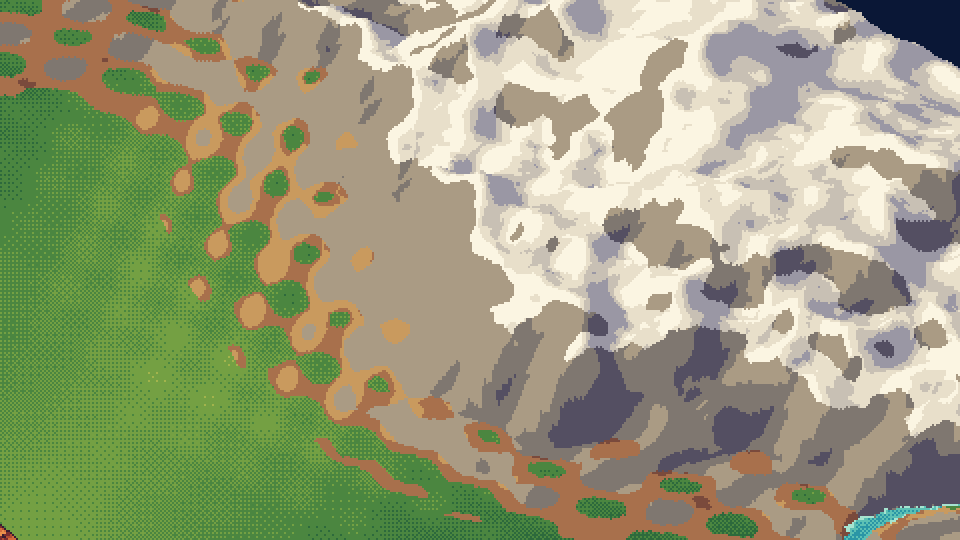
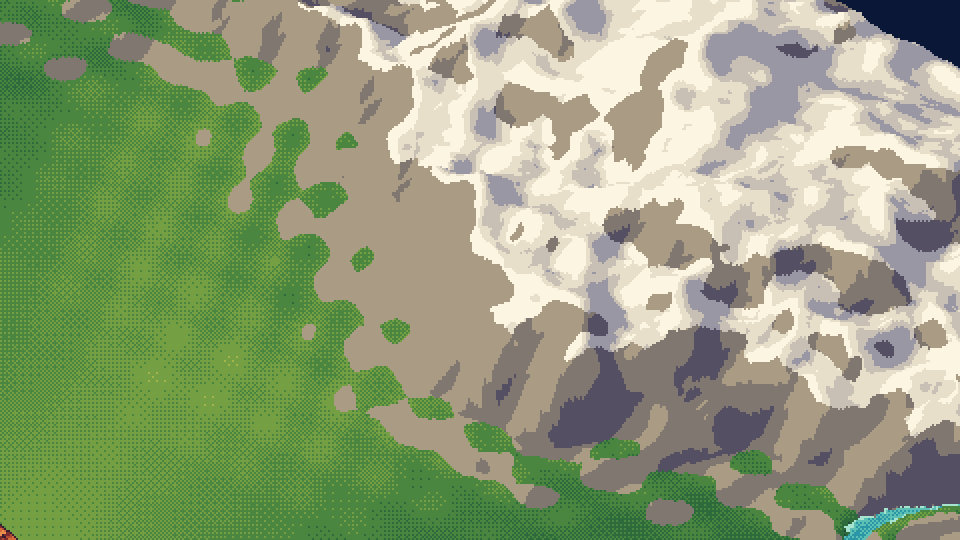
feat(sedimento): P2 tramo 3d terreno con sombras, fertilidad suave y limpieza morfologica
Sombras proyectadas, luz por normal cuantizada por rampa, tono minimo en roca y nieve,
curvatura, fertilidad sin hexagonos y fusion de regiones pequenas. Parcial: falta pulir
la montana frente a la muestra.

diff --git a/games/sedimento/src/logic/horneado.ts b/games/sedimento/src/logic/horneado.ts
@@ -2,9 +2,11 @@
 // isométrica de índices de paleta. Se hace UNA vez al cargar; el juego solo dibuja los trozos visibles.
 // Método: «voxel space» por columnas. Cada columna de pantalla recorre el terreno de lo más cercano a lo más lejano
 // y pinta solo lo que asoma por encima de lo ya pintado, así que laderas, acantilados y costa salen del relieve.
-// Lógica pura y determinista: sin Phaser ni DOM.
+// Luz única desde la izquierda: la normal del relieve (y la sombra que proyectan las cumbres) se cuantiza en los tonos
+// de cada rampa; roca y nieve en bandas duras (sin tramado) y, al final, una limpieza morfológica quita las manchas
+// de pocos píxeles. Lógica pura y determinista: sin Phaser ni DOM.
 import { fbm } from './ruido';
-import { tonoDe } from '../data/paleta';
+import { RAMPAS, tonoDe } from '../data/paleta';
 
 /** Lo que hace falta saber del mundo para hornearlo. Las coordenadas están en tiles de la rejilla. */
 export interface Superficie {
@@ -12,6 +14,8 @@ export interface Superficie {
   suelo(u: number, v: number): number;
   /** Cota de la lámina de agua, o NaN donde no hay agua. */
   agua(u: number, v: number): number;
+  /** Fertilidad 0..1 (suave, sin hexágonos): tiñe el llano de más seco a más lozano. Opcional. */
+  fertilidad?(u: number, v: number): number;
 }
 
 export interface ConfigHorneado {
@@ -35,6 +39,11 @@ export interface ConfigHorneado {
   muestrasPorPixel: number;
   /** Ruido (0..1) por encima del cual la orilla de un río o lago es de arena; por debajo, de hierba. En el mar siempre hay playa. */
   umbralArenaDulce: number;
+  /** Sombras proyectadas por el relieve: muestras por tile de su rejilla y longitud máxima (tiles). 0 = sin sombras. */
+  resolucionSombra: number;
+  alcanceSombra: number;
+  /** Las regiones de un mismo material con menos píxeles que esto se funden con las vecinas (≤ 1 = sin limpieza). */
+  minRegion: number;
 }
 
 export interface ImagenIndices {
@@ -48,6 +57,13 @@ export interface ImagenIndices {
 }
 
 export const VACIO = 255;
+
+/** Materiales (una clase por rampa): la limpieza morfológica opera sobre ellos. */
+const CLASE = { agua: 0, hierba: 1, tierra: 2, roca: 3, piedra: 4 } as const;
+type Clase = keyof typeof CLASE;
+/** Tonos permitidos por material: el más oscuro de roca y piedra es casi tinta y dibuja «rayas negras». */
+const TONO_MIN: Record<Clase, number> = { agua: 0, hierba: 1, tierra: 1, roca: 1, piedra: 3 };
+const TONO_MAX: Record<Clase, number> = { agua: 6, hierba: 5, tierra: 6, roca: 3, piedra: 6 };
 
 const BAYER = [0, 8, 2, 10, 12, 4, 14, 6, 3, 11, 1, 9, 15, 7, 13, 5].map((v) => (v + 0.5) / 16);
 
@@ -63,19 +79,26 @@ const LUZ = (() => {
   return [l[0] / n, l[1] / n, l[2] / n] as const;
 })();
 const LUZ_PLANO = LUZ[2];
-
-interface Muestra {
-  /** Altura de la superficie visible (suelo o agua). */
-  altura: number;
-  rampa: string;
-  tono: number;
-  /** Sombreado en bandas duras, sin tramado: roca y nieve (con tramado se lee como difuminado). */
-  duro?: boolean;
-}
+/** Pendiente del rayo de sol (altura por tile en horizontal) y su dirección horizontal unitaria hacia la luz. */
+const SOL_HOR = Math.hypot(LUZ[0], LUZ[1]);
+const SOL_TAN = LUZ[2] / SOL_HOR;
+const SOL_U = LUZ[0] / SOL_HOR;
+const SOL_V = LUZ[1] / SOL_HOR;
 
 /** Sombra continua → nivel entero (−2..2): las caras del relieve se pintan en bandas, como pixel art dibujado a mano. */
 function banda(sombra: number): number {
   return Math.max(-2, Math.min(2, Math.round(sombra * 7)));
+}
+
+const limitar = (x: number, a: number, b: number): number => Math.max(a, Math.min(b, x));
+
+interface Muestra {
+  /** Altura de la superficie visible (suelo o agua). */
+  altura: number;
+  clase: Clase;
+  tono: number;
+  /** Sombreado en bandas duras, sin tramado: roca y nieve (con tramado se lee como difuminado). */
+  duro?: boolean;
 }
 
 /** Agua a menos de `r` tiles: el mar (lámina al nivel del mar), el agua dulce (río o lago, por encima), o ninguna. */
@@ -104,14 +127,58 @@ export function tipoDeOrilla(sup: Superficie, cfg: ConfigHorneado, u: number, v:
   return fbm(cfg.semilla + 101, u * 0.1, v * 0.1, 2) > cfg.umbralArenaDulce ? 'arena' : 'ribera';
 }
 
-function colorEn(sup: Superficie, cfg: ConfigHorneado, u: number, v: number): Muestra {
+/** Rejilla de sombra proyectada: 1 donde una cumbre tapa el sol. Se calcula una vez; después solo se consulta. */
+class Sombras {
+  private readonly datos: Uint8Array;
+  private readonly nu: number;
+  private readonly nv: number;
+  private readonly r: number;
+
+  constructor(sup: Superficie, cfg: ConfigHorneado) {
+    const r = cfg.resolucionSombra;
+    this.r = r;
+    this.nu = Math.ceil(cfg.tilesU * r) + 1;
+    this.nv = Math.ceil(cfg.tilesV * r) + 1;
+    this.datos = new Uint8Array(this.nu * this.nv);
+    const paso = 0.5;
+    const pasos = Math.ceil(cfg.alcanceSombra / paso);
+    const techo = cfg.alturaMax + 0.1;
+    for (let j = 0; j < this.nv; j++) {
+      for (let i = 0; i < this.nu; i++) {
+        const u = i / r;
+        const v = j / r;
+        const h = sup.suelo(u, v);
+        const agua = sup.agua(u, v);
+        if (!Number.isNaN(agua) && agua > h) continue;          // el agua no se sombrea
+        for (let k = 1; k <= pasos; k++) {
+          const d = k * paso;
+          const alturaRayo = h + d * SOL_TAN;
+          if (alturaRayo > techo) break;
+          const pu = u + SOL_U * d;
+          const pv = v + SOL_V * d;
+          if (pu < 0 || pv < 0 || pu > cfg.tilesU || pv > cfg.tilesV) break;
+          if (sup.suelo(pu, pv) > alturaRayo) { this.datos[j * this.nu + i] = 1; break; }
+        }
+      }
+    }
+  }
+
+  /** `true` si el punto está a la sombra de una cumbre (vecino más cercano de la rejilla). */
+  enSombra(u: number, v: number): boolean {
+    const i = Math.min(this.nu - 1, Math.max(0, Math.round(u * this.r)));
+    const j = Math.min(this.nv - 1, Math.max(0, Math.round(v * this.r)));
+    return this.datos[j * this.nu + i] === 1;
+  }
+}
+
+function muestrear(sup: Superficie, cfg: ConfigHorneado, sombras: Sombras | null, u: number, v: number): Muestra {
   const h = sup.suelo(u, v);
   const agua = sup.agua(u, v);
   if (!Number.isNaN(agua) && agua > h) {
     // Agua: más clara cerca de la orilla, más oscura con la profundidad; espuma en la orilla.
     const prof = agua - h;
     const tono = prof < 0.07 ? 6 : 5.2 - Math.min(5.2, prof * 3.4);
-    return { altura: agua, rampa: 'agua', tono };
+    return { altura: agua, clase: 'agua', tono };
   }
   const e = 0.35;
   const gu = (sup.suelo(u + e, v) - sup.suelo(u - e, v)) / (2 * e);
@@ -121,23 +188,36 @@ function colorEn(sup: Superficie, cfg: ConfigHorneado, u: number, v: number): Mu
   const pendiente = Math.hypot(gu, gv);
   const sobreMar = h - cfg.nivelMar;
   const ruido = fbm(cfg.semilla, u * 0.35, v * 0.35, 3) - 0.5;
-  // Montaña: nieve en las cumbres suaves (borde nítido, con la cota perturbada por el ruido) y roca estratificada
-  // en las laderas. Todo en bandas duras de 1 a 3 tonos para que se lea como pixel art y no como un degradado.
-  const cota = sobreMar + ruido * 0.9;
-  if (cota > cfg.alturaCumbre && pendiente < cfg.pendienteRoca * 1.6) {
-    return { altura: h, rampa: 'piedra', tono: 4.2 + banda(sombra) * 0.8, duro: true };
+  const taparSol = sobreMar > 0.3 && sombras !== null && sombras.enSombra(u, v);
+
+  if (sobreMar > 0.6) {
+    // Curvatura: las crestas (convexas) se aclaran y los barrancos (cóncavos) se oscurecen, con borde nítido.
+    const e2 = 0.7;
+    const lap = (sup.suelo(u + e2, v) + sup.suelo(u - e2, v) + sup.suelo(u, v + e2) + sup.suelo(u, v - e2) - 4 * h) / (e2 * e2);
+    const cresta = limitar(-lap * 0.3, -1, 1);
+    // Montaña: nieve en las cumbres suaves (cota perturbada por ruido, borde nítido), roca en las laderas y caras
+    // de acantilado donde la pendiente es alta. Bandas duras de 1 a 3 tonos para que se lea como pixel art.
+    const cota = sobreMar + ruido * 0.9;
+    if (cota > cfg.alturaCumbre && pendiente < cfg.pendienteRoca * 1.4) {
+      return { altura: h, clase: 'piedra', tono: 4.6 + banda(sombra) * 0.9 + cresta * 0.7 - (taparSol ? 1.6 : 0), duro: true };
+    }
+    if (pendiente > cfg.pendienteRoca || cota > cfg.alturaCumbre * 0.8) {
+      return { altura: h, clase: 'roca', tono: 2.2 + banda(sombra) * 0.55 + cresta * 0.6 - (taparSol ? 0.9 : 0), duro: true };
+    }
+  } else if (pendiente > cfg.pendienteRoca) {
+    return { altura: h, clase: 'roca', tono: 2.2 + banda(sombra) * 0.55 - (taparSol ? 0.9 : 0), duro: true };
   }
-  if (pendiente > cfg.pendienteRoca || cota > cfg.alturaCumbre * 0.8) {
-    // Roca en los tres tonos medios de la rampa: el más oscuro es casi tinta y dibuja «rayas negras».
-    return { altura: h, rampa: 'roca', tono: 2.1 + banda(sombra) * 0.5, duro: true };
-  }
+
   const orilla = tipoDeOrilla(sup, cfg, u, v);
-  if (orilla === 'arena') return { altura: h, rampa: 'tierra', tono: 4.1 + sombra * 4 + ruido * 0.9 };
-  if (orilla === 'ribera') return { altura: h, rampa: 'hierba', tono: 2 + sombra * 4.5 + ruido * 1.2 };   // hierba húmeda, más oscura
-  if (sobreMar > cfg.alturaCumbre * 0.5) {
-    return { altura: h, rampa: 'hierba', tono: 1.9 + sombra * 4.5 + ruido * 1.2 };   // monte bajo: hierba oscura
-  }
-  return { altura: h, rampa: 'hierba', tono: 2.7 + sombra * 4.5 + ruido * 1.5 };
+  if (orilla === 'arena') return { altura: h, clase: 'tierra', tono: 4.1 + sombra * 4 + ruido * 0.5 };
+  if (orilla === 'ribera') return { altura: h, clase: 'hierba', tono: 1.8 + sombra * 4 };   // hierba húmeda, más oscura
+  // Llano y monte bajo: el tono sale de la fertilidad (seco → claro y amarillento, lozano → oscuro) y de una
+  // variación suave a gran escala, con pocos niveles; el tramado solo suaviza la frontera entre ellos.
+  const fert = sup.fertilidad ? sup.fertilidad(u, v) : 0.5;
+  const suave = fbm(cfg.semilla + 3, u * 0.05, v * 0.05, 2) - 0.5;
+  const altitud = Math.min(1, sobreMar / (cfg.alturaCumbre * 0.8)) * 1.4;   // monte bajo: hierba más oscura
+  const tono = 3.2 - (fert - 0.5) * 2.6 + suave * 1.2 - altitud + sombra * 3.5 - (taparSol ? 1.3 : 0);
+  return { altura: h, clase: 'hierba', tono };
 }
 
 /** Tamaño de la imagen horneada y de dónde cuelga en el mundo. */
@@ -155,6 +235,8 @@ export function dimensionesImagen(cfg: ConfigHorneado): Omit<ImagenIndices, 'dat
 export function hornear(sup: Superficie, cfg: ConfigHorneado): ImagenIndices {
   const dim = dimensionesImagen(cfg);
   const datos = new Uint8Array(dim.ancho * dim.alto).fill(VACIO);
+  const clases = new Uint8Array(dim.ancho * dim.alto).fill(VACIO);
+  const sombras = cfg.resolucionSombra > 0 ? new Sombras(sup, cfg) : null;
   const medioAncho = cfg.tileAncho / 2;
   const medioAlto = cfg.tileAlto / 2;
   const ds = 1 / (medioAlto * cfg.muestrasPorPixel);   // paso en s=u+v: ~1/muestrasPorPixel píxel en pantalla
@@ -167,17 +249,76 @@ export function hornear(sup: Superficie, cfg: ConfigHorneado): ImagenIndices {
     for (let s = sMax; s >= sMin; s -= ds) {
       const u = (s + d) / 2;
       const v = (s - d) / 2;
-      const m = colorEn(sup, cfg, u, v);
+      const m = muestrear(sup, cfg, sombras, u, v);
       const y = Math.floor(s * medioAlto - m.altura * cfg.pxPorAltura - dim.origenY);
       if (ymin < 0) ymin = Math.min(dim.alto, y + 1);
       if (y >= ymin) continue;
       const duro = m.duro === true;
-      for (let j = Math.max(0, y); j < ymin; j++) datos[j * dim.ancho + i] = tonoDe(m.rampa, duro ? Math.round(m.tono) : cuantizar(m.tono, i, j));
+      const lo = TONO_MIN[m.clase];
+      const hi = TONO_MAX[m.clase];
+      const clase = CLASE[m.clase];
+      for (let j = Math.max(0, y); j < ymin; j++) {
+        const t = duro ? Math.round(m.tono) : cuantizar(m.tono, i, j);
+        datos[j * dim.ancho + i] = tonoDe(m.clase, limitar(t, lo, hi));
+        clases[j * dim.ancho + i] = clase;
+      }
       ymin = Math.max(0, y);
       if (ymin === 0) break;
     }
   }
+  if (cfg.minRegion > 1) limpiarRegiones(datos, clases, dim.ancho, dim.alto, cfg.minRegion);
   return { ...dim, datos };
+}
+
+/**
+ * Limpieza morfológica: toda región conexa (4 vecinos) de un mismo material con menos de `minimo` píxeles se funde
+ * con el material que más la rodea, copiando el índice de paleta del vecino que más la toca. Quita islotes y motas
+ * sueltas; el agua no se toca.
+ */
+export function limpiarRegiones(datos: Uint8Array, clases: Uint8Array, ancho: number, alto: number, minimo: number): void {
+  const n = ancho * alto;
+  const visto = new Uint8Array(n);
+  const cola = new Int32Array(n);
+  const porClase = new Map<number, { n: number; idx: number }>();
+  for (let inicio = 0; inicio < n; inicio++) {
+    const clase = clases[inicio];
+    if (visto[inicio] || clase === VACIO) continue;
+    let cabeza = 0;
+    let fin = 0;
+    cola[fin++] = inicio;
+    visto[inicio] = 1;
+    while (cabeza < fin) {
+      const p = cola[cabeza++];
+      const x = p % ancho;
+      const y = (p - x) / ancho;
+      if (x > 0 && !visto[p - 1] && clases[p - 1] === clase) { visto[p - 1] = 1; cola[fin++] = p - 1; }
+      if (x < ancho - 1 && !visto[p + 1] && clases[p + 1] === clase) { visto[p + 1] = 1; cola[fin++] = p + 1; }
+      if (y > 0 && !visto[p - ancho] && clases[p - ancho] === clase) { visto[p - ancho] = 1; cola[fin++] = p - ancho; }
+      if (y < alto - 1 && !visto[p + ancho] && clases[p + ancho] === clase) { visto[p + ancho] = 1; cola[fin++] = p + ancho; }
+    }
+    if (fin >= minimo || clase === CLASE.agua) continue;
+    // Votos de los píxeles que rodean la región, agrupados por material (el índice se toma del último vecino visto).
+    porClase.clear();
+    for (let k = 0; k < fin; k++) {
+      const p = cola[k];
+      const x = p % ancho;
+      const y = (p - x) / ancho;
+      const vecinos = [x > 0 ? p - 1 : -1, x < ancho - 1 ? p + 1 : -1, y > 0 ? p - ancho : -1, y < alto - 1 ? p + ancho : -1];
+      for (const q of vecinos) {
+        if (q < 0 || clases[q] === clase || clases[q] === VACIO) continue;
+        const previo = porClase.get(clases[q]);
+        if (previo) { previo.n++; previo.idx = datos[q]; } else porClase.set(clases[q], { n: 1, idx: datos[q] });
+      }
+    }
+    let mejor: { n: number; idx: number } | null = null;
+    let claseMejor: number = clase;
+    for (const [c, v] of porClase) if (!mejor || v.n > mejor.n) { mejor = v; claseMejor = c; }
+    if (!mejor) continue;
+    for (let k = 0; k < fin; k++) {
+      datos[cola[k]] = mejor.idx;
+      clases[cola[k]] = claseMejor;
+    }
+  }
 }
 
 export interface Trozo { x: number; y: number; ancho: number; alto: number }
@@ -191,4 +332,9 @@ export function trocear(ancho: number, alto: number, lado: number): Trozo[] {
     }
   }
   return trozos;
+}
+
+/** Rampa (por nombre) a la que pertenece un índice de paleta, o undefined. Útil para tests y depuración. */
+export function rampaDe(indice: number): string | undefined {
+  return Object.keys(RAMPAS).find((n) => RAMPAS[n].includes(indice));
 }

diff --git a/games/sedimento/src/logic/mundo.ts b/games/sedimento/src/logic/mundo.ts
@@ -3,7 +3,8 @@
 import tuning from '../data/tuning.json';
 import { crearCampoAlturas, type CampoAlturas } from './alturas';
 import { hornear, type ConfigHorneado, type ImagenIndices, type Superficie } from './horneado';
-import { generarMapa, type Mapa } from './mapa';
+import { axialAMundo, Rejilla } from './hex';
+import { esAgua, generarMapa, type Mapa } from './mapa';
 import { conRelieve } from './relieve';
 
 export interface Mundo {
@@ -14,6 +15,53 @@ export interface Mundo {
   cfg: ConfigHorneado;
   tilesU: number;
   tilesV: number;
+}
+
+/**
+ * Fertilidad suave (0..1) por tile: cada hexágono de tierra reparte su fertilidad con un peso gaussiano, así el llano
+ * varía sin dibujar hexágonos. Los hexágonos de agua no cuentan: la orilla no se tiñe de «sin fertilidad».
+ */
+export function fertilidadSuave(mapa: Mapa, campo: CampoAlturas, tileMundo: number, tilesU: number, tilesV: number): (u: number, v: number) => number {
+  const nu = tilesU + 2;
+  const nv = tilesV + 2;
+  const suma = new Float32Array(nu * nv);
+  const peso = new Float32Array(nu * nv);
+  const rejilla = new Rejilla(mapa.columnas, mapa.filas);
+  const R = tuning.alturas.tamanoHex;
+  const radio = 2.4;
+  const sigma = 0.95;
+  for (let i = 0; i < rejilla.total; i++) {
+    if (esAgua(mapa.terreno[i])) continue;
+    const { q, r } = rejilla.axial(i);
+    const p = axialAMundo(q, r, R);
+    const cu = (p.x - campo.origenX) / tileMundo;
+    const cv = (p.z - campo.origenZ) / tileMundo;
+    for (let v = Math.max(0, Math.floor(cv - radio)); v <= Math.min(nv - 1, Math.ceil(cv + radio)); v++) {
+      for (let u = Math.max(0, Math.floor(cu - radio)); u <= Math.min(nu - 1, Math.ceil(cu + radio)); u++) {
+        const d2 = (u - cu) * (u - cu) + (v - cv) * (v - cv);
+        const w = Math.exp(-d2 / (2 * sigma * sigma));
+        suma[v * nu + u] += w * mapa.fertilidad[i];
+        peso[v * nu + u] += w;
+      }
+    }
+  }
+  const valor = (u: number, v: number): number => {
+    const k = v * nu + u;
+    return peso[k] > 1e-3 ? suma[k] / peso[k] : 0.5;
+  };
+  return (u, v) => {
+    const x = Math.min(nu - 2, Math.max(0, u));
+    const y = Math.min(nv - 2, Math.max(0, v));
+    const i = Math.floor(x);
+    const j = Math.floor(y);
+    const fx = x - i;
+    const fy = y - j;
+    const a = valor(i, j);
+    const b = valor(i + 1, j);
+    const c = valor(i, j + 1);
+    const d = valor(i + 1, j + 1);
+    return a + (b - a) * fx + (c - a) * fy + (a - b - c + d) * fx * fy;
+  };
 }
 
 /** Superficie en coordenadas de tile: 1 tile = `tileMundo` unidades del campo de alturas. */
@@ -43,7 +91,8 @@ export function crearMundo(semilla: number = tuning.mapa.semilla): Mundo {
     ...(({ relieve: _r, ...resto }) => resto)(tuning.horneado),
   };
   const { relieve, ...cfgHorneado } = tuning.horneado;
-  const superficie = conRelieve(superficieDeCampo(campo, tile), tilesU, tilesV, campo.nivelMar, semilla, relieve);
+  const fertilidad = fertilidadSuave(mapa, campo, tile, tilesU, tilesV);
+  const superficie: Superficie = { ...conRelieve(superficieDeCampo(campo, tile), tilesU, tilesV, campo.nivelMar, semilla, relieve), fertilidad };
   return { semilla, mapa, campo, superficie, cfg: { ...cfg, ...cfgHorneado, alturaMax: cfg.alturaMax + relieve.amplitud * 0.6 }, tilesU, tilesV };
 }
 

diff --git a/games/sedimento/tests/horneado.test.ts b/games/sedimento/tests/horneado.test.ts
@@ -171,5 +171,5 @@ describe('mundo procedural', () => {
     expect(pintados.every((v) => v < COLORES.length)).toBe(true);
     expect(enRampa(img, 'agua')).toBeGreaterThan(1000);
     expect(enRampa(img, 'hierba')).toBeGreaterThan(1000);
-  });
+  }, 60000);
 });

diff --git a/studio/aprendizajes.md b/studio/aprendizajes.md
@@ -6,3 +6,9 @@ Una línea por lección reutilizable: `- [área] síntoma → causa → solució
 - [ts] `tsc` falla con "Cannot find name 'process'" en vite.config.ts → el tsconfig no incluye tipos de Node → dejar vite.config.ts fuera de `include` (Vite lo compila aparte).
 - [shot] error "HTTP 404 /favicon.ico" → el navegador pide un favicon → `<link rel="icon" href="data:,">` en index.html.
 - [general] la bitácora mostraba F102 como siguiente con P0–P10 pendientes → el CLI ordenaba las fases por id (F < P < S) en cada `fase` → ordenar por versión y después por id (studio/bitacora.mjs)
+- [ts] Un test que hornea el mundo real pasa de 5 s en Vitest → subir el timeout de ESE test (`it(..., 60000)`), no el global.
+- [general] Pixel art de montaña: sombreado continuo + tramado se lee borroso; usar bandas duras por rampa, tono mínimo (el más oscuro de roca/piedra es casi tinta → «rayas negras») y limpieza morfológica de regiones pequeñas.
+- [general] Pantallas con zoom de Windows/Chrome: el factor entero hay que calcularlo en píxeles FÍSICOS (k/devicePixelRatio), no en CSS, o el pixel art se ve borroso.
+- [general] `render.py`/muestra: la luz sale de la normal del heightfield + sombra proyectada (−2 tonos); la precalculada en rejilla fina (4/tile) es barata, el trazado por píxel no.
+- [phaser] Phaser 4: `Phaser.Math.Vector2[]` en `fillPoints` (no Geom.Point); `scale.zoom` acepta fracciones (CSS) con `Scale.NONE`.
+- [bash] Windows: en Bash heredocs con `'` o `rm -r` pueden denegarse; escribir tests temporales con Write y borrarlos con `rm -f`.
